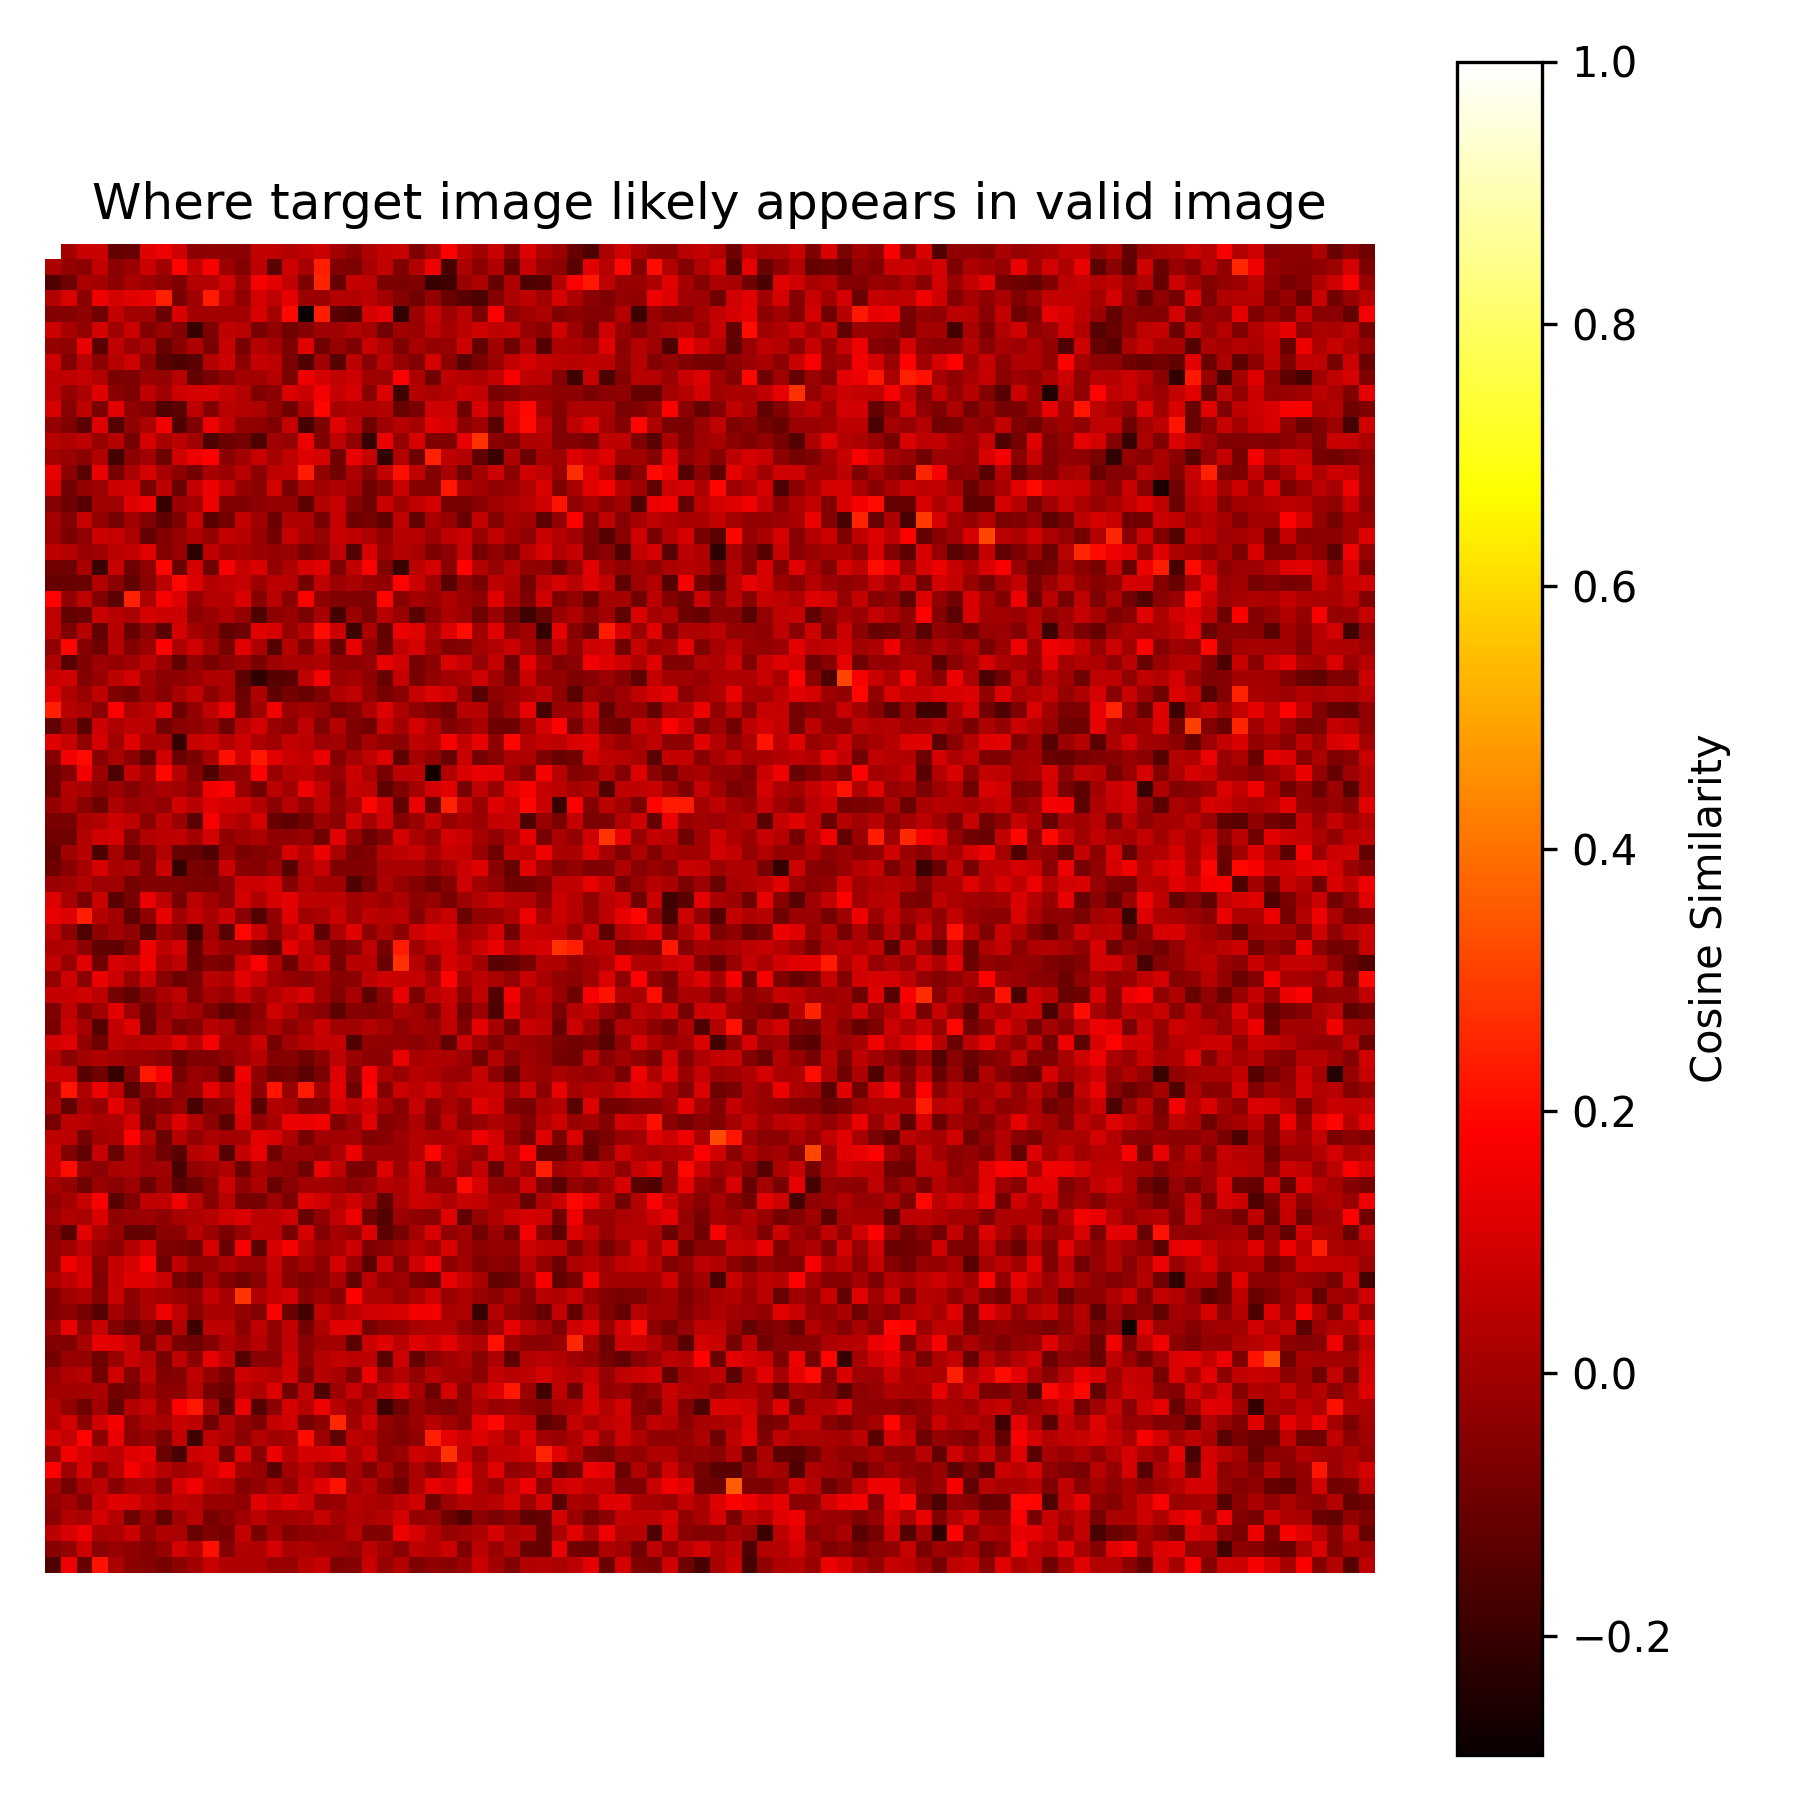
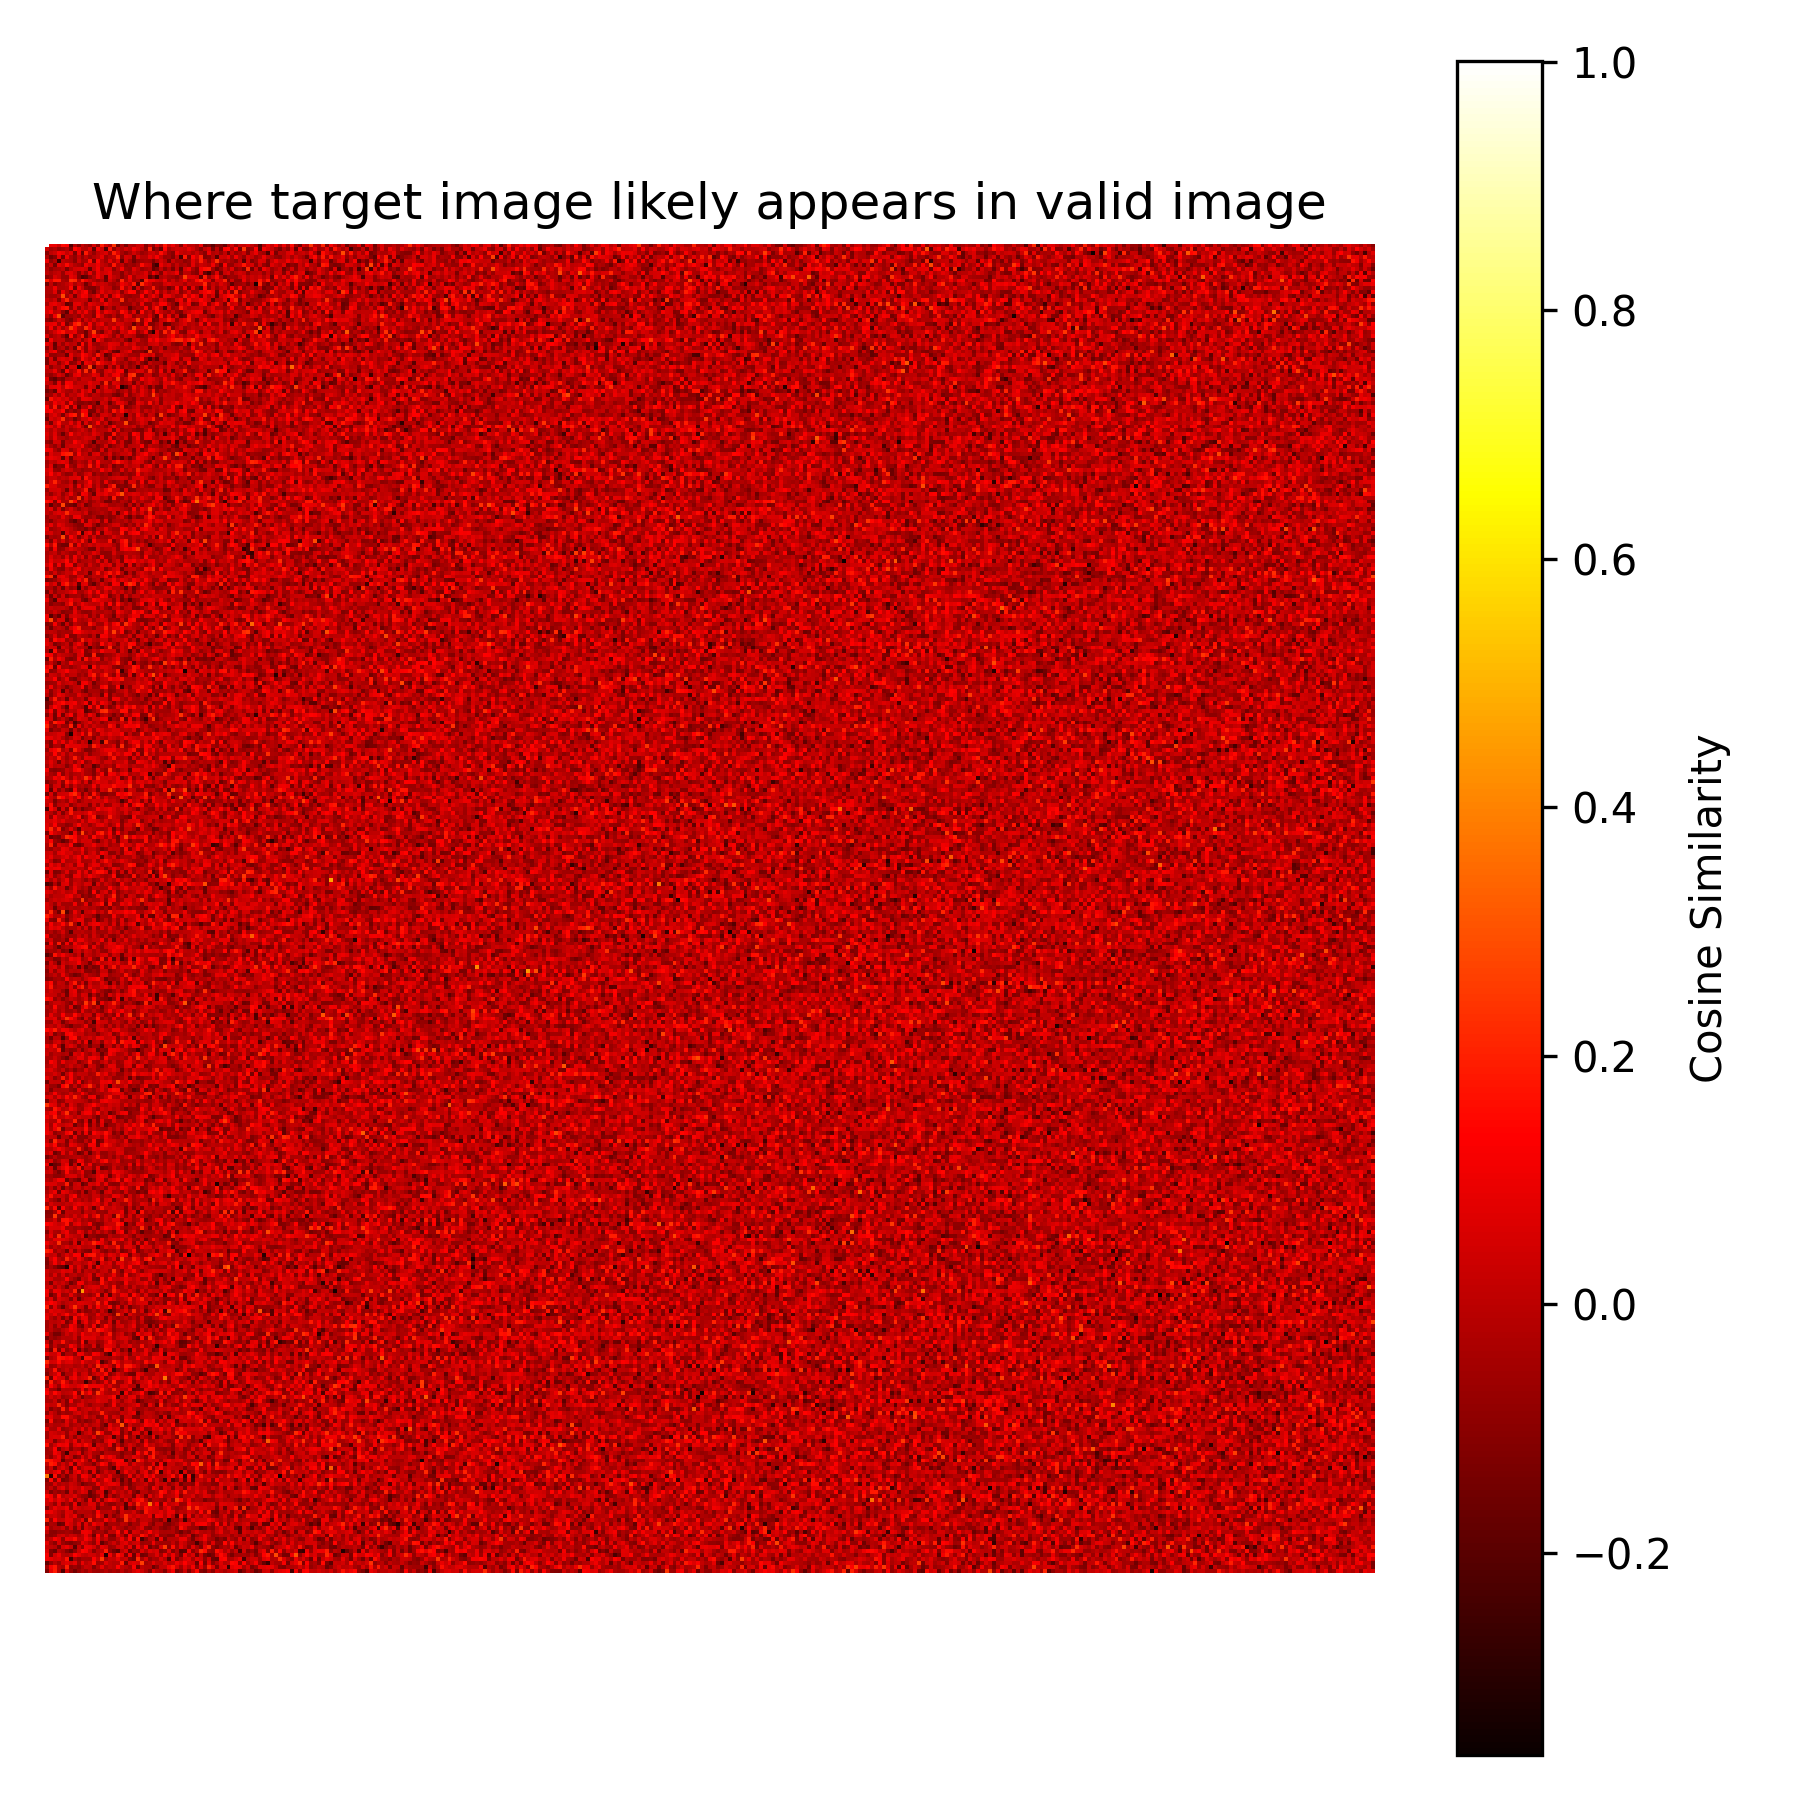
patch size 16

diff --git a/infer.py b/infer.py
@@ -42,11 +42,11 @@ def cosine_similarity(target_embs, vaild_embs, batch_size=1000):
 
 mode = 'img'
 #mode = 'entropy'
-model_path = "../checkpoints/img_230.pt"
-patch_size = 64 
-emb_dim = 256
+model_path = "../checkpoints/img_100.pt"
+patch_size = 16 
+emb_dim = 128 
 window_size = 15
-num_bins = 128
+num_bins = 64
 
 device = torch.device("cuda")
 model = EncoderModel(patch_size, emb_dim)

diff --git a/main.py b/main.py
@@ -10,12 +10,12 @@ import numpy as np
 
 mode = 'img' 
 #mode = 'entropy'
-patch_size = 64 
+patch_size = 16 
 window_size = 15
-num_bins = 128
-emb_dim = 256 
-epochs = 230 
-batch_size = 40000
+num_bins = 64 
+emb_dim = 128 
+epochs = 100 
+batch_size = 10000
 num_workers = 0 
 lr = 1e-4
 
